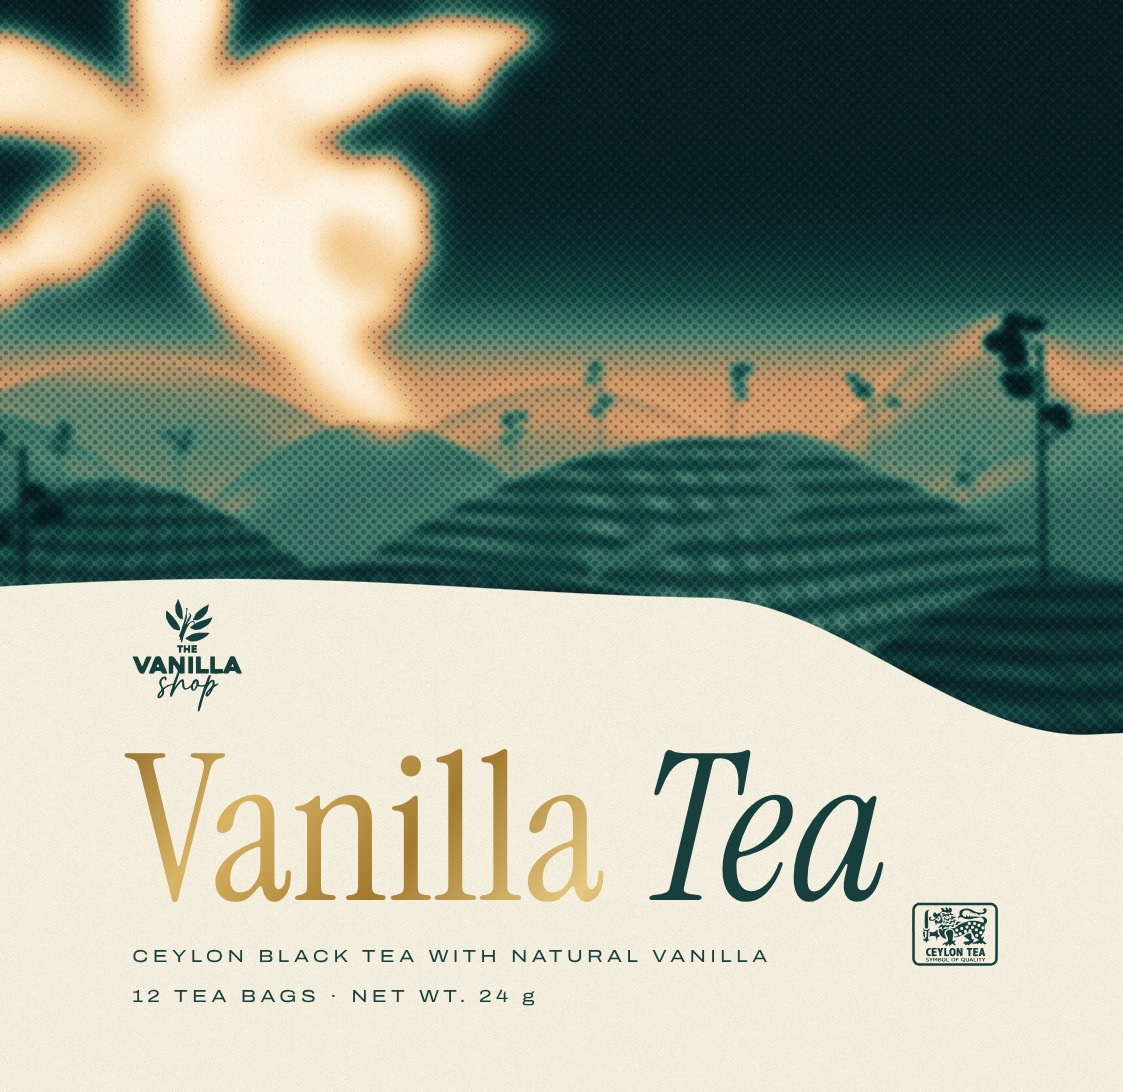
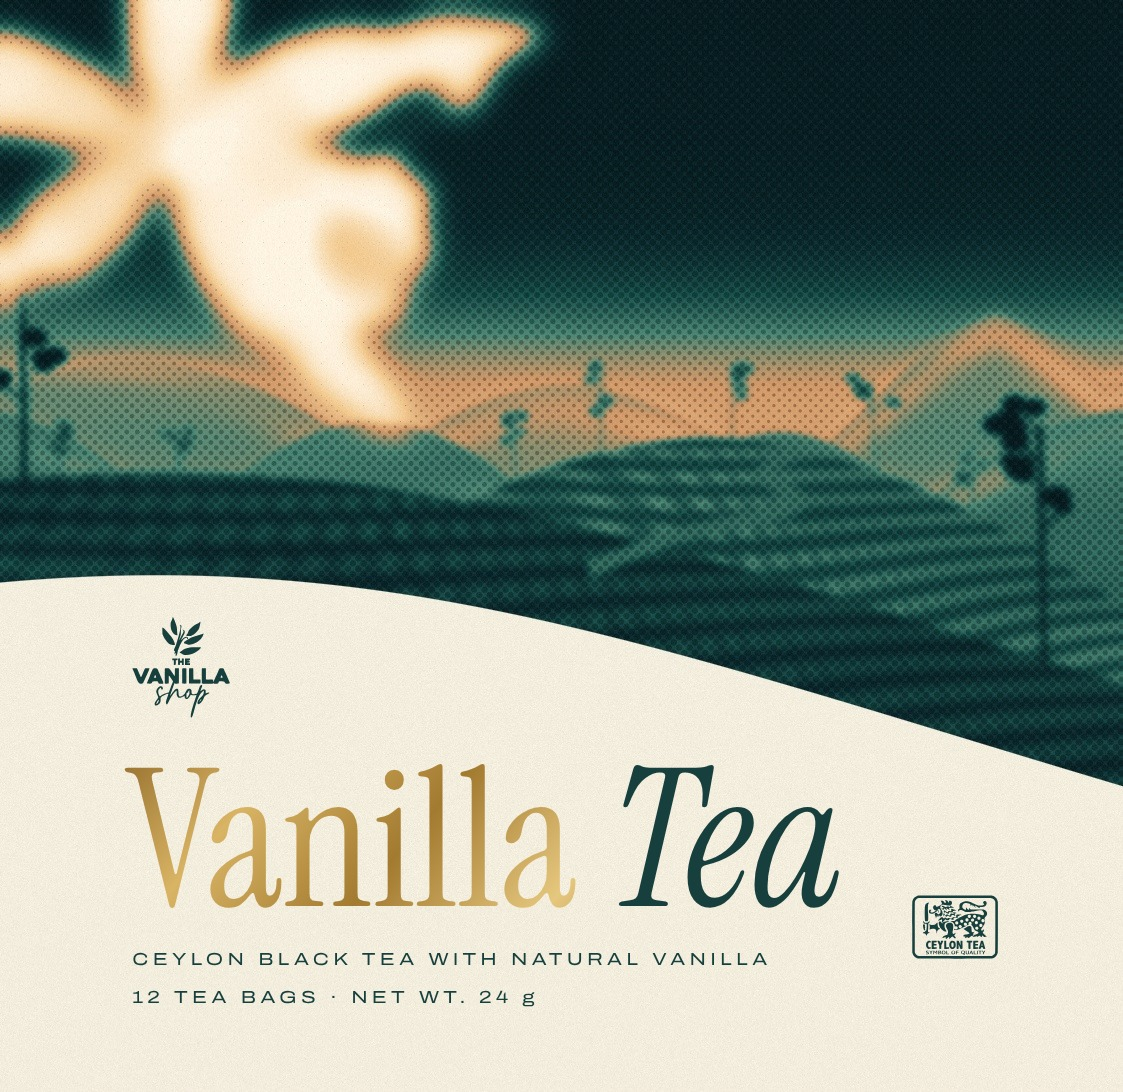
Tea: Estate front edge as one smooth sweep, hedge rows parallel to it
The cream's edge is a single cubic curve, high under the logo and falling
away to the right; the near hill's crest follows it, so its rows of tea run
with the edge, as in the reference.

Claude-Session: https://claude.ai/code/session_01Psd6wLDi15Gf4F1fXEFmxS

diff --git a/vanilla-shop/studies/tea/bandsystem/garden.py b/vanilla-shop/studies/tea/bandsystem/garden.py
@@ -16,6 +16,7 @@ O=b6.O
 kit.FONTS.update({'ISR':'/home/user/PersonalEventPlanner305App/vanilla-shop/fonts/instrument-serif.ttf'})
 b6.css=''.join(f"@font-face{{font-family:{a};src:url(file://{v})}}" for a,v in kit.FONTS.items())
 d=BOX['cube']; FW,FH=d['FW'],d['FH']; cx=FW/2
+NEAR=None
 def nz(h,w,sx,sy,seed):
     n=np.random.default_rng(seed).normal(0,1,(h,w)).astype(np.float32); n=cv2.GaussianBlur(n,(0,0),sigmaX=sx,sigmaY=sy); return n/(n.std()+1e-6)
 def landscape(h,w):
@@ -74,7 +75,7 @@ def estate(h,w):
         L=np.where(m,L+amp*row*bush-dark,L)
     cA=hump([(56,33.5,30)]); mA=layer(cA,0.24,0.0,5); hedges(mA,cA,1.8,0.30,6)                                # the estate hill, right of the flower
     cB=hump([(6,37,20)]); mB=layer(cB,0.20,0.0,7); hedges(mB,cB,1.7,0.28,8)
-    cN=hump([(30,44,40),(86,45,20)]); mN=layer(cN,0.14,0.0,9); hedges(mN,cN,2.2,0.24,10)                          # the near slope
+    cN=NEAR(xs) if NEAR else hump([(30,44,40),(86,45,20)]); mN=layer(cN,0.14,0.0,9); hedges(mN,cN,2.2,0.24,10)                          # the near slope
     # a red-earth footpath climbing the estate hill
     im=Image.new('L',(w*2,h*2),0); dr=ImageDraw.Draw(im)
     import draw as DR; sp=DR.cr([(66,34.5),(60,36.5),(64,39),(54,41.5),(46,44.5)],14); rib=DR.ribbon(sp,lambda u:0.25+0.55*u)
@@ -126,26 +127,27 @@ def T(t,x,y,sz,c,f,a='middle',tr=0.0): return f'<text x="{x:.2f}" y="{y:.2f}" fo
 man=[]
 RAMPS={'dawn':['#081A1F','#0F3236','#1B5550','#4E8A78','#D59A6A','#F3CB91','#FFF4E2'],
        'amber':['#0A1D1C','#173A35','#3D5238','#946A2E','#DB9B47','#F5D294','#FFF6E4']}
-from kit import logo
-GREEN='#163F3D'; CREAM='#F6F1E4'                                                          # 01's ink; the label's paper
-ramp=RAMPS['dawn']; render('gd-dawn',ramp)
-def label(lw,lh,ly,head):
-    """the cream label with 01's stacked name: Vanilla in gold, Tea in green italic"""
-    lx=cx-lw/2
-    return [f'<defs>{LEAF}</defs><rect x="{lx}" y="{ly}" width="{lw}" height="{lh}" fill="{CREAM}"/>',
-            f'<rect x="{lx+1.4}" y="{ly+1.4}" width="{lw-2.8}" height="{lh-2.8}" fill="none" stroke="{GREEN}" stroke-width="0.15" opacity=".7"/>',
-            *head,
-            T('Vanilla',cx,ly+lh-22.8,14.5,'url(#leaf)','ISR'),
-            T('Tea',cx,ly+lh-10.6,14.5,GREEN,'IS'),
-            T('CEYLON BLACK TEA  ·  NATURAL VANILLA',cx,ly+lh-6.4,1.3,GREEN,'RW',tr=0.26),
-            T('12 TEA BAGS  ·  NET WT. 24 g',cx,ly+lh-3.6,1.2,GREEN,'RW',tr=0.3)]
-# A: the logo heads the label; the lion stays on the art, smaller
-lh=48; ly=FH-lh-6
-oA=label(58,lh,ly,[logo(cx,ly+8.2,11,GREEN)])+[lion(FW-11.5,5.5,6.5,CREAM)]
-man.append(b6.face('gd-label-a',FW,FH,'gd-dawn.jpg',oA))
-# B: the logo large on the art where the lion was; the lion drops to a small mark in the corner
-lh=44; ly=FH-lh-6
-oB=label(58,lh,ly,[T('SINGLE ORIGIN  ·  SRI LANKA',cx,ly+6.6,1.3,GREEN,'RW',tr=0.42)])+[logo(FW-13,12,13,CREAM),
-    lion(4.2,FH-11.2,6.5,CREAM)]
-man.append(b6.face('gd-label-b',FW,FH,'gd-dawn.jpg',oB))
-json.dump(man,open(O+'gd.json','w')); print('ok')
+if __name__=='__main__':
+    from kit import logo
+    GREEN='#163F3D'; CREAM='#F6F1E4'                                                          # 01's ink; the label's paper
+    ramp=RAMPS['dawn']; render('gd-dawn',ramp)
+    def label(lw,lh,ly,head):
+        """the cream label with 01's stacked name: Vanilla in gold, Tea in green italic"""
+        lx=cx-lw/2
+        return [f'<defs>{LEAF}</defs><rect x="{lx}" y="{ly}" width="{lw}" height="{lh}" fill="{CREAM}"/>',
+                f'<rect x="{lx+1.4}" y="{ly+1.4}" width="{lw-2.8}" height="{lh-2.8}" fill="none" stroke="{GREEN}" stroke-width="0.15" opacity=".7"/>',
+                *head,
+                T('Vanilla',cx,ly+lh-22.8,14.5,'url(#leaf)','ISR'),
+                T('Tea',cx,ly+lh-10.6,14.5,GREEN,'IS'),
+                T('CEYLON BLACK TEA  ·  NATURAL VANILLA',cx,ly+lh-6.4,1.3,GREEN,'RW',tr=0.26),
+                T('12 TEA BAGS  ·  NET WT. 24 g',cx,ly+lh-3.6,1.2,GREEN,'RW',tr=0.3)]
+    # A: the logo heads the label; the lion stays on the art, smaller
+    lh=48; ly=FH-lh-6
+    oA=label(58,lh,ly,[logo(cx,ly+8.2,11,GREEN)])+[lion(FW-11.5,5.5,6.5,CREAM)]
+    man.append(b6.face('gd-label-a',FW,FH,'gd-dawn.jpg',oA))
+    # B: the logo large on the art where the lion was; the lion drops to a small mark in the corner
+    lh=44; ly=FH-lh-6
+    oB=label(58,lh,ly,[T('SINGLE ORIGIN  ·  SRI LANKA',cx,ly+6.6,1.3,GREEN,'RW',tr=0.42)])+[logo(FW-13,12,13,CREAM),
+        lion(4.2,FH-11.2,6.5,CREAM)]
+    man.append(b6.face('gd-label-b',FW,FH,'gd-dawn.jpg',oB))
+    json.dump(man,open(O+'gd.json','w')); print('ok')

diff --git a/vanilla-shop/studies/tea/bandsystem/estate_front.py b/vanilla-shop/studies/tea/bandsystem/estate_front.py
@@ -16,9 +16,11 @@ GREEN='#163F3D'; CREAM='#F4EEDF'
 LEAF=('<linearGradient id="leaf" x1="0" y1="0" x2="1" y2="0.3"><stop offset="0" stop-color="#8A6424"/><stop offset=".25" stop-color="#D9B465"/>'
       '<stop offset=".5" stop-color="#A27A30"/><stop offset=".75" stop-color="#E6C77E"/><stop offset="1" stop-color="#946B28"/></linearGradient>')
 def ss(t): t=np.clip(t,0,1); return t*t*(3-2*t)
+EDGE=np.array([(-3,45.5),(30,42.5),(52,51),(90.6,62.5)])                                       # one cubic sweep, like a hill's shoulder
+_t=np.linspace(0,1,600)[:,None]; _c=(1-_t)**3*EDGE[0]+3*(1-_t)**2*_t*EDGE[1]+3*(1-_t)*_t**2*EDGE[2]+_t**3*EDGE[3]
 def edge(x):
-    """face-mm y of the cream's top edge: level under the type, the near hill sweeping down on the right"""
-    return 46.0-0.8*np.sin((x+6)/14)+12.5*ss((x-56)/32)
+    """face-mm y of the cream's top edge: high and level under the logo, falling away smoothly to the right"""
+    return np.interp(x,_c[:,0],_c[:,1])
 def compose(src,dst):
     a=np.asarray(Image.open(O+src).convert('RGB')).astype(np.float32); h,w=a.shape[:2]
     xs=np.arange(w,dtype=np.float32)/K-B; ys=np.arange(h,dtype=np.float32)[:,None]/K-B
@@ -28,11 +30,13 @@ def compose(src,dst):
     Image.fromarray(out.clip(0,255).astype(np.uint8)).save(O+dst,quality=95)
 def T(t,x,y,sz,c,f,a='start',tr=0.0): return f'<text x="{x:.2f}" y="{y:.2f}" font-family="{f}" font-size="{sz}" letter-spacing="{sz*tr:.3f}" fill="{c}" text-anchor="{a}">{t}</text>'
 def overlay(x=8):
-    return [f'<defs>{LEAF}</defs>', logo(x+4.6,51.6,9.2,GREEN),
-            f'<text x="{x-0.3}" y="72" font-size="17"><tspan font-family="ISR" fill="url(#leaf)">Vanilla</tspan><tspan font-family="IS" fill="{GREEN}"> Tea</tspan></text>',
-            T('CEYLON BLACK TEA WITH NATURAL VANILLA',x,77.2,1.45,GREEN,'RW',tr=0.24),
-            T('12 TEA BAGS  ·  NET WT. 24 g',x,80.5,1.45,GREEN,'RW',tr=0.24),
-            lion(FW-14.6,72.2,7.2,GREEN)]
+    return [f'<defs>{LEAF}</defs>', logo(x+4.1,52.6,8.2,GREEN),
+            f'<text x="{x-0.3}" y="72.5" font-size="16"><tspan font-family="ISR" fill="url(#leaf)">Vanilla</tspan><tspan font-family="IS" fill="{GREEN}"> Tea</tspan></text>',
+            T('CEYLON BLACK TEA WITH NATURAL VANILLA',x,77.4,1.45,GREEN,'RW',tr=0.24),
+            T('12 TEA BAGS  ·  NET WT. 24 g',x,80.6,1.45,GREEN,'RW',tr=0.24),
+            lion(FW-14.6,71.6,7.2,GREEN)]
 if __name__=='__main__':
-    compose('gd-dawn.jpg','ef-front.jpg')
+    import os; os.environ['NOSHOOT']='1'; import garden as G
+    G.NEAR=lambda xs: edge(xs)-8.5                                                                  # the near hill's rows run with the edge
+    G.render('ef-art',G.RAMPS['dawn']); compose('ef-art.jpg','ef-front.jpg')
     json.dump([b6.face('ef-front',FW,FH,'ef-front.jpg',overlay())],open(O+'ef.json','w')); print('ok')
